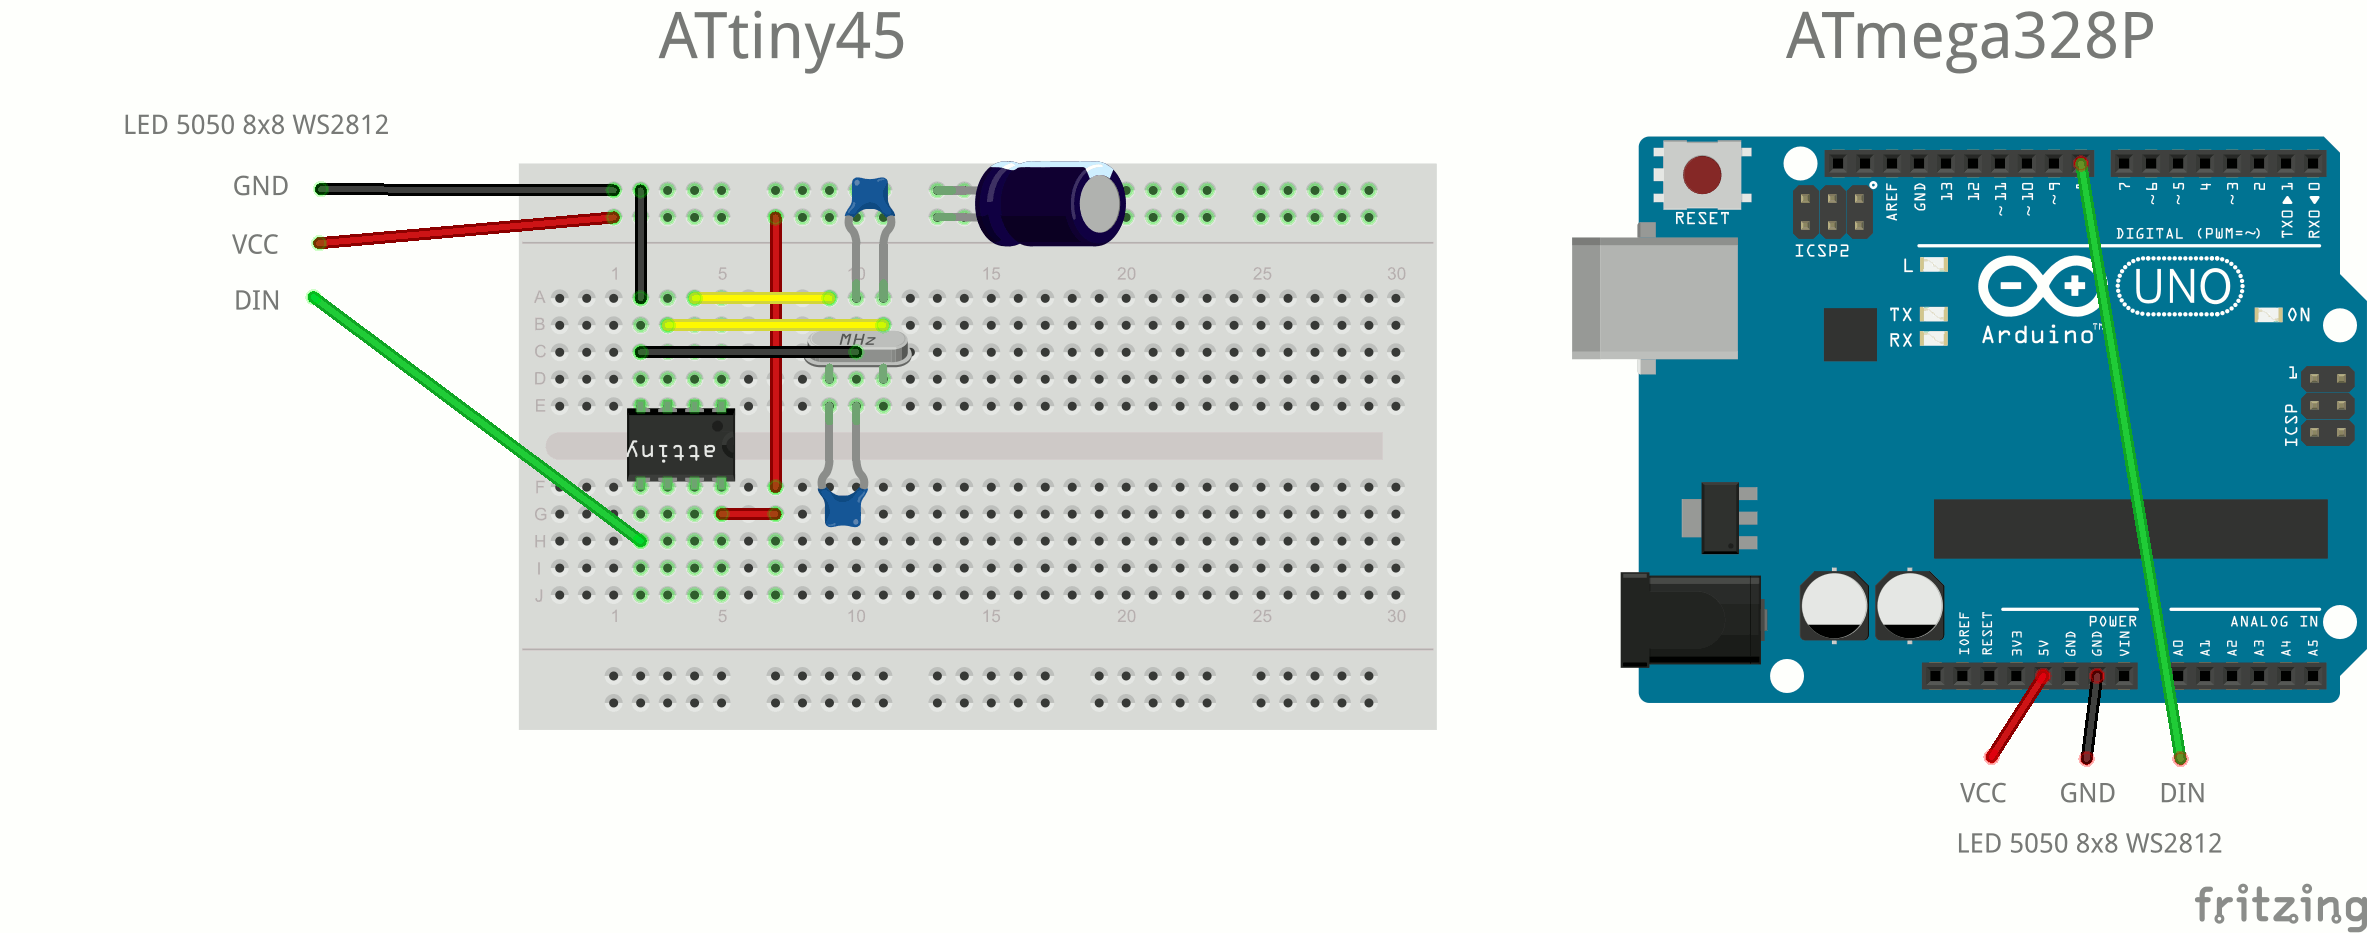
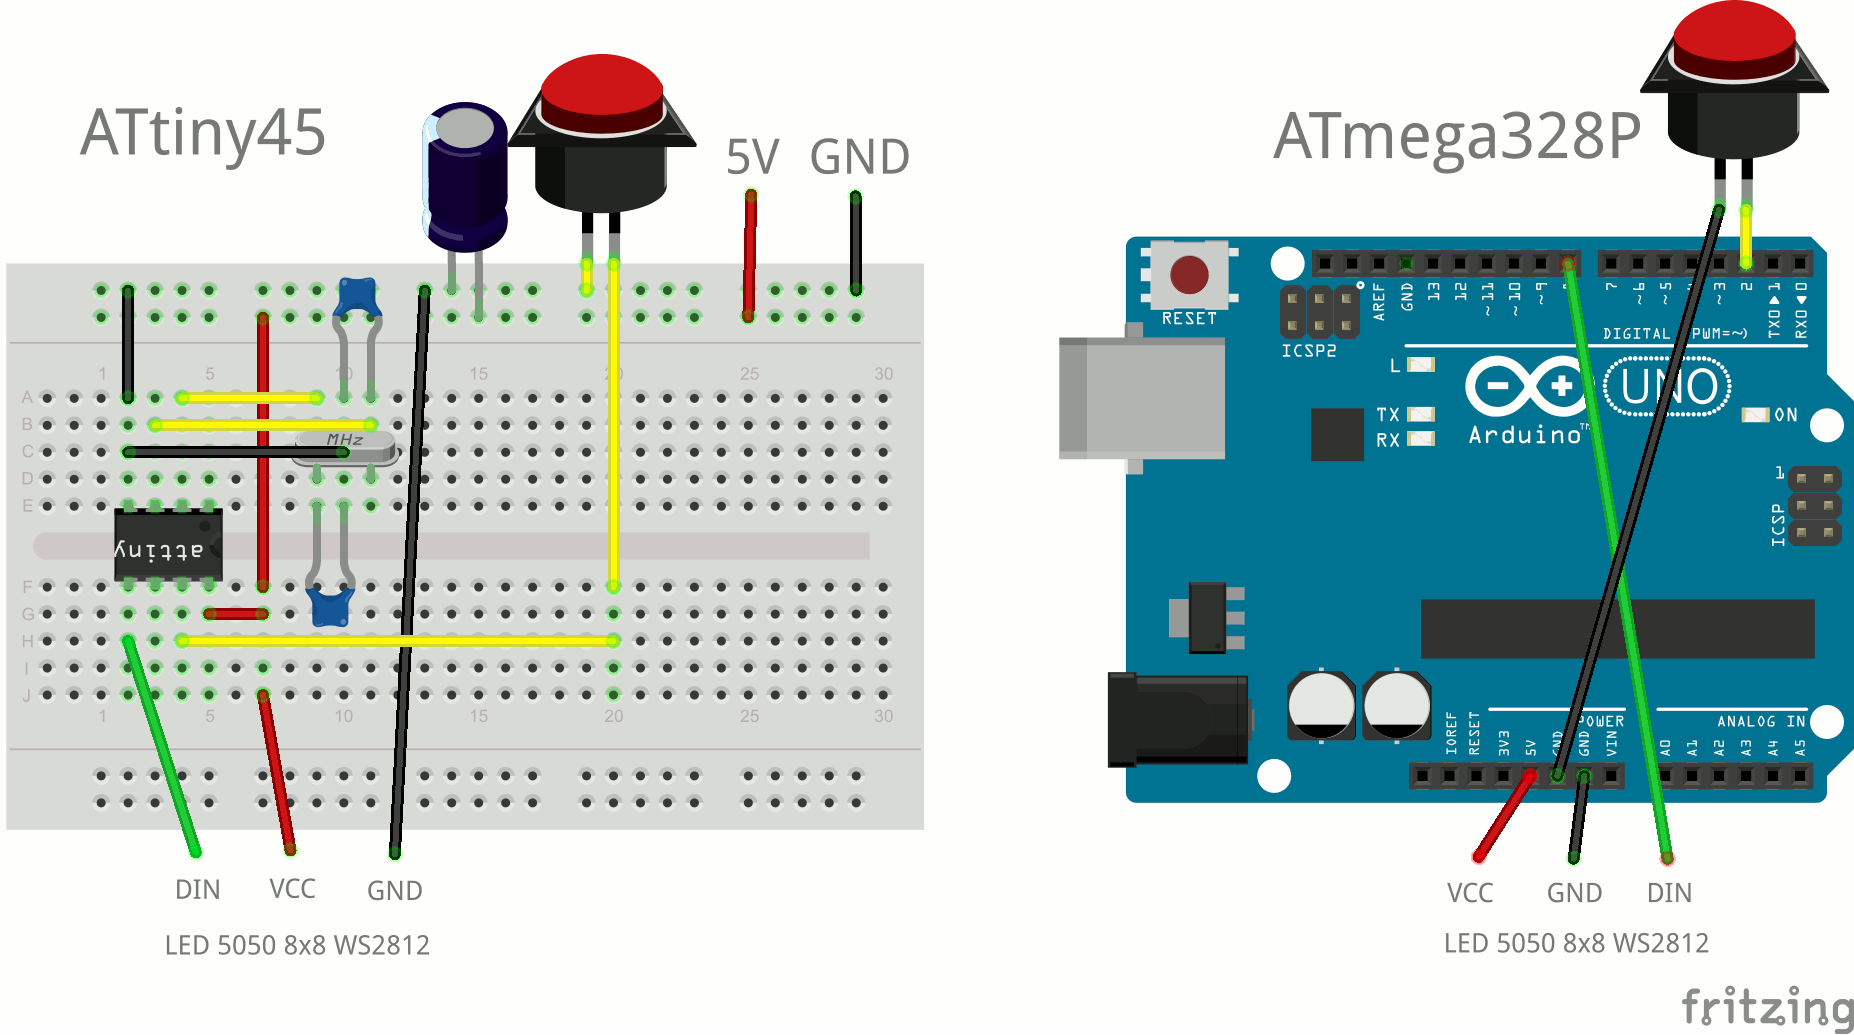
update docu

diff --git a/README.md b/README.md
@@ -2,14 +2,15 @@
 <table>
 <tr><th>Date</th><td>2016-04</td></tr>
 <tr><th>Tool Version</th><td>Arduino IDE 1.6.5 (Windows) (arduino.avrdude=6.0.1-arduino5, arduino.avr-gcc=4.8.1-arduino5)</td></tr>
-<tr><th>Keywords</th><td>LED, WS2812, Arduino Uno, ATmega328, ATtiny45, AVR assembler</td></tr>
+<tr><th>Keywords</th><td>LED, WS2812, Arduino Uno, ATmega328, ATtiny45</td></tr>
 </table>
 
 <h2>Introduction</h2>
 
+<img align="right" src="Led-4x8x8.jpg" alt="Led-4x8x8" height="485" width="320"/>
 <img align="right" src="Led-8x8.jpg" alt="Led-8x8" height="300" width="320"/>
 
-<p>This program displays three 3x3 pixel color changing balls running over an 8x8 LED WS2812 Matrix.<p>
+<p>This program displays animations on one, two or four 8x8 LED WS2812 matrices. You can switch between the animations by pressing a button.<p>
 <p>There are two versions, one for the Arduino Uno rev3 running at 16MHz and one for an ATtiny45 running at 20MHz.</p>
 
 <h2>License</h2>
@@ -19,13 +20,23 @@
 
 <table>
   <tr><th></th><th>ATmega328P<br>(Arduino Uno rev3)</th><th>ATtiny45</th></tr>
-  <tr><th>Clock</th><td>extern 16MHz</td><td>extern 20MHz</td></tr>
+  <tr><th>Clock</th><td>external 16MHz</td><td>external 20MHz</td></tr>
   <tr><th>Voltage</th><td>5V</td><td>5V</td></tr>
-  <tr><th>Current</th><td></td><td>max 150mA</td></tr>
+  <tr><th>Current</th><td></td><td>&lt; 2A</td></tr>
 </table>
 
+<h2>Configuring the Software</h2>
+<p>The layout of the LED matrices is defined in ledMatrix.h:
+<ul>
+  <li><span style="font-family: monospace;">#define MATRIX_8x8</span><br>One 8x8 LED matrix</li>
+  <li><span style="font-family: monospace;">#define MATRIX_2X8x8</span><br>Two 8x8 LED matrices, giving 16x8 LEDs; left: LEDs 0 to 63, right: LEDs 64 to 127</li>
+  <li><span style="font-family: monospace;">#define MATRIX_2x2X8x8</span><br>Four 8x8 LED matrices, giving 16x16 LEDs; top: LEDs 0 to 127, bottom: LEDs 128 to 255</li>
+</ul>
+<p>If you use a different layout (e.g. 3x1) you have to add a new <span style="font-family: monospace;">#define</span>. In ledMatrix.h you have to add some constants for the new layout and in ledMatrix.cpp you have the add the conversion calculation from x/y coordinates to LED index and vice versa.</p>
+<p>If you want to add an animation, you have to implement an initialization function and a run function. Then you have to add the function calls to the led-8x8.asm file. Please consider that the RAM of the ATtiny45 is too small for a memory mapped display and calculating the each pixel color must be done within 50us because of the WS2812 protocol. However you can use an ATtiny85 with more memory or an ATmega328P where memory is not an issue at all.</p>
+
 <h2>Compiling the Software</h2>
-If you don't want to compile yourself, upload the included .hex file with avrdude.
+<p>If you don't want to compile yourself, upload the included hex file (using one 8x8 matrix) with avrdude.</p>
 <ul>
   <li>If you don't have a 'make' get and install it (http://gnuwin32.sourceforge.net/packages/make.htm)</li>
   <li>Open command line box, change directory to the source folder of this project</li>
@@ -39,18 +50,18 @@ If you don't want to compile yourself, upload the included .hex file with avrdud
 <h3>ATmega328</h3>
 <ul>
   <li>Run 'make MCU=atmega328p Upload' to upload the hex file</li>
-  <li>Connect Arduino's 5V, GND and Digital Pin 8 to the LED matrix' 5V, GND and DIN pins</li>
+  <li>Connect Arduino's 5V, GND and Digital Pin 8 to the LED matrix' 5V, GND and DIN pins, connect Arduino's GND and Digital Pin 2 with a push button as shown in the <a href="Led-8x8.png">image</a></li>
 </ul>
 
 <h3>ATtiny45</h3>
 <ul>
   <li>To upload the hex file to the ATtiny45 with an Arduino Uno board as programmer follow the instructions on http://highlowtech.org/?p=1695 'connecting an Arduino (as ISP) to an ATtiny'</li>
   <li>Run 'make MCU=attiny45 Upload' to upload the hex file</li>
-  <li>Run 'make MCU=attiny45 BurnFuse' to switch the ATtiny to use an external clock source. Warning: After burning the Fuse you cannot use the ATtiny45 without an external clock (not even reprogram to clear the fuse)!</li>
-  <li>Setup ATtiny45, 20MHz oscillator, two 22pF capacitors, 10uF capacitor and the LED matrix as shown in the <a href="Led-8x8.png">image</a></li>
+  <li>Run 'make MCU=attiny45 BurnFuse' to make the ATtiny45 use an external clock source. Warning: After burning the Fuse you cannot use the ATtiny45 without an external clock (not even reprogram to clear the fuse)!</li>
+  <li>Setup the ATtiny45, 20MHz oscillator, two 22pF capacitors, 10uF capacitor, push button and the LED matrix as shown in the <a href="Led-8x8.png">image</a></li>
 </ul>
 
-<h2>links</h2>
+<h2>Links</h2>
 <ul>
   <li>http://www.atmel.com/images/Atmel-8271-8-bit-AVR-Microcontroller-ATmega48A-48PA-88A-88PA-168A-168PA-328-328P_datasheet_Complete.pdf</li>
   <li>http://www.atmel.com/Images/Atmel-2586-AVR-8-bit-Microcontroller-ATtiny25-ATtiny45-ATtiny85_Datasheet.pdf</li>
